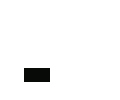
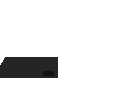
Add files via upload

Changed region(s): [[0.0, 0.57, 0.475, 0.84]]

diff --git a/1456119000/all.cs b/1456119000/all.cs
@@ -103,7 +103,7 @@ namespace Mod
 					ModAPI.KeepExtraObjects();
         
 					var ThompsonSlide = Instance.transform.Find("Slide");
-                    ThompsonSlide.GetComponent<SpriteRenderer>().sprite = ModAPI.LoadSprite("models/939_sl.png", 19f);
+                    ThompsonSlide.GetComponent<SpriteRenderer>().sprite = ModAPI.LoadSprite("models/939_sl.png", 17f);
                     Instance.GetComponent<SpriteRenderer>().sprite = ModAPI.LoadSprite("models/939.png", 16f);
                     Instance.GetComponent<FirearmBehaviour>().barrelPosition = new Vector2(0.32f, 0.10f);
                     foreach (var c in Instance.GetComponents<Collider2D>())
@@ -115,7 +115,7 @@ namespace Mod
 
                     var firearm = Instance.GetComponent<FirearmBehaviour>();
                     Instance.GetComponent<FirearmBehaviour>().Automatic = true;
-                    Instance.GetComponent<FirearmBehaviour>().AutomaticFireInterval = 0.07f;
+                    Instance.GetComponent<FirearmBehaviour>().AutomaticFireInterval = 0.08f;
 
                     firearm.ShotSounds = new AudioClip[]
               {
